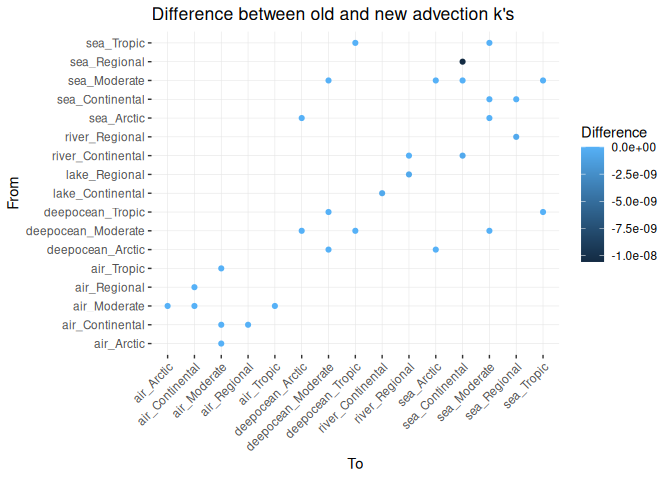
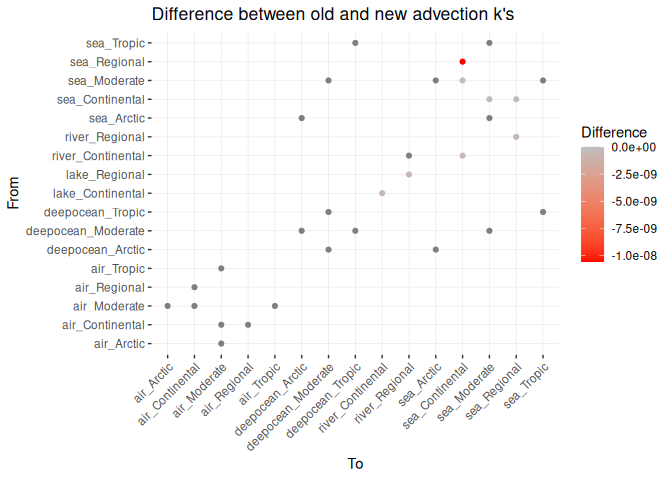
Added a table

diff --git a/vignettes/Development/Quality control/Comparison-water-advection-update.md b/vignettes/Development/Quality control/Comparison-water-advection-update.md
@@ -369,10 +369,18 @@ changed_kaas <- kaas_comparison |>
 ``` r
 mean_diffs <- kaas_comparison |>
   mutate(fromname = paste0(fromSubCompart, "_", fromScale)) |>
-  mutate(toname = paste0(toSubCompart, "_", toScale))
+  mutate(toname = paste0(toSubCompart, "_", toScale)) |>
+  mutate(diff = ifelse(diff == 0, NaN, diff))
 
 ggplot(mean_diffs, mapping = aes(x = toname, y = fromname, color = diff)) + 
   geom_point() + 
+  scale_color_gradient2(
+    low = "red",    # Colors for negative values
+    mid = "grey",   # Neutral point at zero
+    high = "blue",  # Colors for positive values
+    midpoint = 0,   # Center the scale at zero
+    limits = c(-max(abs(mean_diffs$diff)), max(abs(mean_diffs$diff)))  # Ensure symmetric scale
+  ) +
   labs(
     title = "Difference between old and new advection k's",
     x = "To",  
@@ -405,3 +413,31 @@ ggplot(mean_diffs, mapping = aes(x = toname, y = fromname, color = rel_diff)) +
 ```
 
 ![](Comparison-water-advection-update_files/figure-gfm/Plot%20the%20differences%20between%20ks-2.png)<!-- -->
+
+``` r
+table_for_display <- changed_kaas |>
+  select(fromScale, fromSubCompart, toScale, toSubCompart, Substance, k_Old, k_New, diff, rel_diff) |>
+  mutate(diff = format(diff, scientific = TRUE, digits = 2)) |>
+  mutate(rel_diff = format(rel_diff, scientific = TRUE, digits = 2))
+
+knitr::kable(table_for_display)
+```
+
+| fromScale | fromSubCompart | toScale | toSubCompart | Substance | k_Old | k_New | diff | rel_diff |
+|:---|:---|:---|:---|:---|---:|---:|:---|:---|
+| Continental | lake | Continental | river | 1-aminoanthraquinone | 0.0e+00 | 0.0e+00 | -5.8e-10 | -3.2e-01 |
+| Continental | river | Continental | sea | 1-aminoanthraquinone | 1.0e-07 | 1.0e-07 | -5.6e-10 | -7.8e-03 |
+| Continental | sea | Moderate | sea | 1-aminoanthraquinone | 0.0e+00 | 0.0e+00 | 1.4e-13 | 4.5e-06 |
+| Continental | sea | Regional | sea | 1-aminoanthraquinone | 0.0e+00 | 0.0e+00 | -1.3e-13 | -7.8e-03 |
+| Moderate | sea | Continental | sea | 1-aminoanthraquinone | 0.0e+00 | 0.0e+00 | 2.7e-14 | 4.5e-06 |
+| Regional | lake | Regional | river | 1-aminoanthraquinone | 0.0e+00 | 0.0e+00 | -5.8e-10 | -3.2e-01 |
+| Regional | river | Regional | sea | 1-aminoanthraquinone | 1.0e-07 | 1.0e-07 | -5.6e-10 | -7.8e-03 |
+| Regional | sea | Continental | sea | 1-aminoanthraquinone | 1.4e-06 | 1.4e-06 | -1.1e-08 | -7.8e-03 |
+
+From these figures and the table we can see that the flows between
+Continental sea and Moderate sea are slightly higher in the new
+implementation than in the old implementation.
+
+The flows from lake to river on Regional and Continental scale changed
+the most; relatively a fraction of +- -0.3. So the flow is lower in the
+new implementation than in the old implementation.
